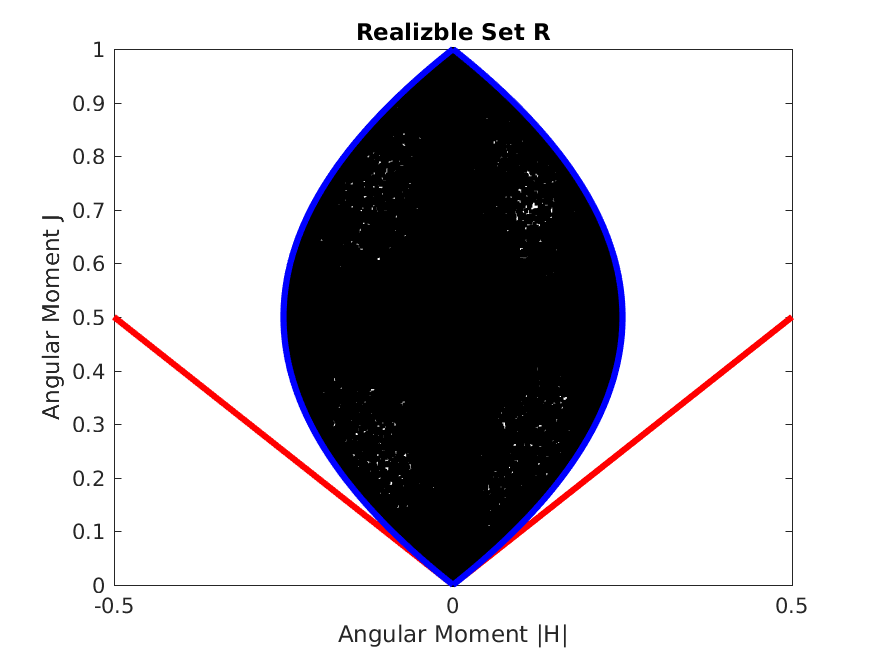
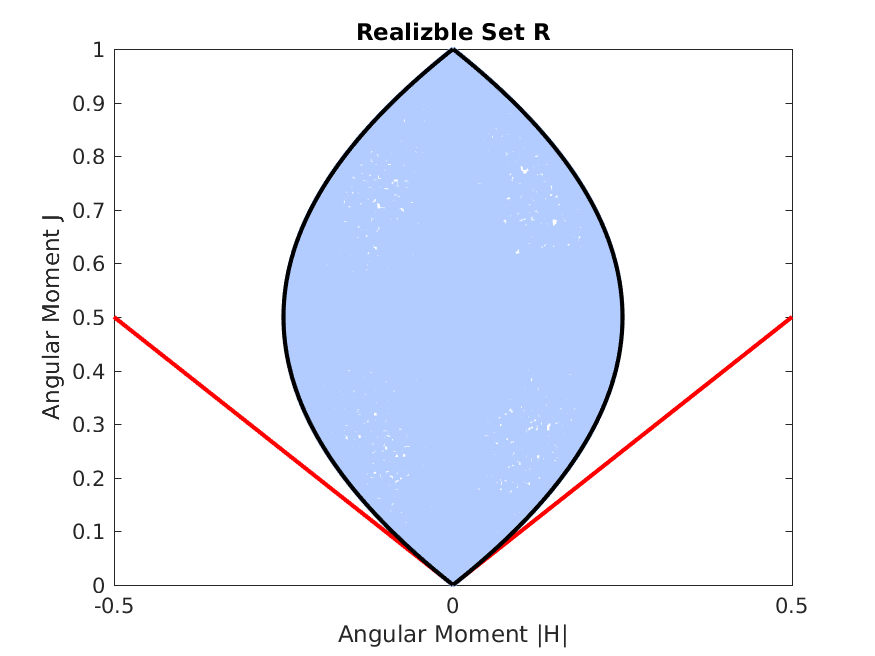
Modified the plot of convex set R.

diff --git a/Documents/M1/realizableFermionicM1/sections/realizability.tex b/Documents/M1/realizableFermionicM1/sections/realizability.tex
@@ -73,26 +73,26 @@ We now define the realizable set $\cR$
   Since $\theta$, $\cJ_{a}$, $1-\theta$ and $\cJ_{b}$ are all nonnegative, $\cJ_{ab}$ is also nonnegative.
   Meanwhile, since $\cJ_{a}\leq1$ and $\cJ_{b}\leq1$, $\cJ_{ab}\leq1$.
   That's $\cJ_{ab} \in [0,1]$.
-  The second component is
+  Since the second derivative of $\gamma(\vect{\cM})$ is $-2$ which is always negative, $\gamma(\vect{\cM})$ is a concave function.
+  Using Jensen's inequality, we have
   \begin{equation*}
-  \vect{\cH}_{ab} 
-  = \theta \vect{\cH}_{a} + (1-\theta)\vect{\cH}_{b}.
-  \end{equation*}
-  Using Jensen's inequality,
-  \begin{equation*}
-  \gamma(\vect{\cM_{ab}}) \leq \theta\gamma(\vect{\cM_{a}}) + (1-\theta)\gamma(\vect{\cM_{b}}) \leq 0.
+  \gamma(\vect{\cM_{ab}}) \geq \theta\gamma(\vect{\cM_{a}}) + (1-\theta)\gamma(\vect{\cM_{b}}) \ge0.
   \end{equation*}
 \end{proof}
 
-The Fig.~\ref{fig:RealizableSetFermionic} illustrates how the convex realizable set $\cR$ looks like in $|\vect{\cH}| - \cJ$ coordinates.  
+The Fig.~\ref{fig:RealizableSetFermionic} illustrates how the convex realizable set $\cR$ looks like in $|\vect{\cH}| - \cJ$ coordinates.
+Total 1000,000 distribution functions having form $\mathfrak{f}(\mu;a,b) = \dfrac{1}{e^{a+b\mu}+1}$ were evaluated.
+The parameters, $a$ and $b$, were chosen from $[-100,100]$ independently.
+The variable $\mu$ ranges from $-1$ to $1$ with $d\mu=\f{1}{128}$.
+And the integrals in angular moment expressions are calculated using Trapezoid rule.
 \begin{figure}
 \centering
-\includegraphics[width=0.7\linewidth]{figures/RealizableSetFermionic}
+\includegraphics[width=1.0\linewidth]{figures/RealizableSetFermionic}
 \caption[Numerical plot of the convex realizable set $\cR$.]{
 A numerical plot of the convex realizable set $\cR$.
-The blue line are the boundary given by $\gamma(\vect{\cM}) = 0$. 
+The black line are the boundary given by $\gamma(\vect{\cM}) = 0$. 
 The red line are the boundary given by $|\vect{\cH}| = \cJ$.
-Every black dot represents a sample whose distribution function $\mathfrak{f}(\mu)$ is an arbitrary Fermi-Dirac function and its angular moments were given by integrals using Trapezoid rule.
+Every light-blue dot represents a sample whose distribution function $\mathfrak{f}(\mu)$ is an arbitrary Fermi-Dirac function and its angular moments were given by integrals using Trapezoid rule.
 Total 1000,000 $\mathfrak{f}(\mu)$ were sampled for making this plot.}
 \label{fig:RealizableSetFermionic}
 \end{figure}

diff --git a/Documents/M1/realizableFermionicM1/figures/ConvexSetGenerator.m b/Documents/M1/realizableFermionicM1/figures/ConvexSetGenerator.m
@@ -12,8 +12,8 @@ for iPt = 1 : nPts
 end
 
 nMu = 256;
-MuL = - 0.999999;
-MuR = + 0.999999;
+MuL = - 1.0;
+MuR = + 1.0;
 Mu  = linspace( MuL, MuR, nMu )';
 dMu = ( MuR - MuL ) / nMu;
 
@@ -44,16 +44,16 @@ end
 toc
 
 fig = figure;
-plot( H_FD, J_FD, '.k', 'MarkerSize', 6 );hold on
+plot( H_FD, J_FD, '.','Color',[0.7 0.8 1.0], 'MarkerSize', 5.5 );hold on
 yy = linspace(0.0,1.0,1024)';
 xxP_FD = + yy.*(1.0-yy);
 xxM_FD = - yy.*(1.0-yy);
 xxP_MB = + yy;
 xxM_MB = - yy;
-plot( xxP_MB, yy, '-r', 'linewidth', 3 )
-plot( xxM_MB, yy, '-r', 'linewidth', 3 )
-plot( xxP_FD, yy, '-b', 'linewidth', 3 )
-plot( xxM_FD, yy, '-b', 'linewidth', 3 )
+plot( xxP_MB, yy, '-r', 'linewidth', 2 )
+plot( xxM_MB, yy, '-r', 'linewidth', 2 )
+plot( xxP_FD, yy, '-k', 'linewidth', 2 )
+plot( xxM_FD, yy, '-k', 'linewidth', 2 )
 hold off
 axis([-0.5 0.5 0.0 1.0]);
 xlabel('Angular Moment |H|');
